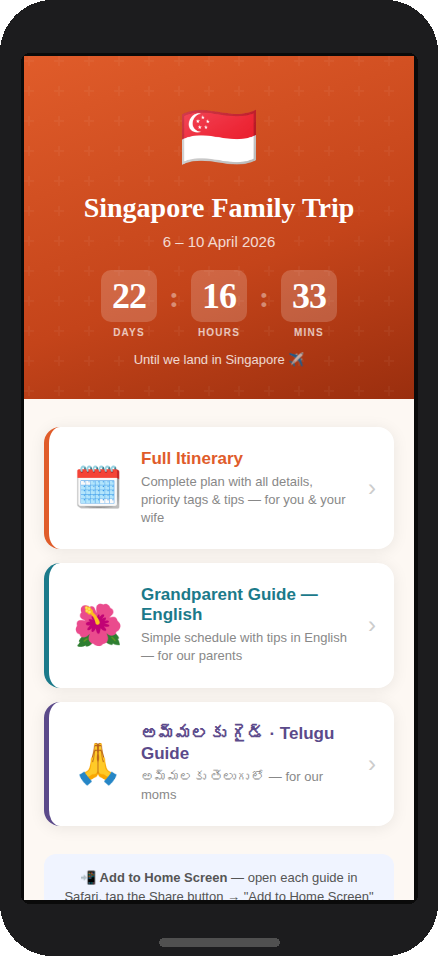
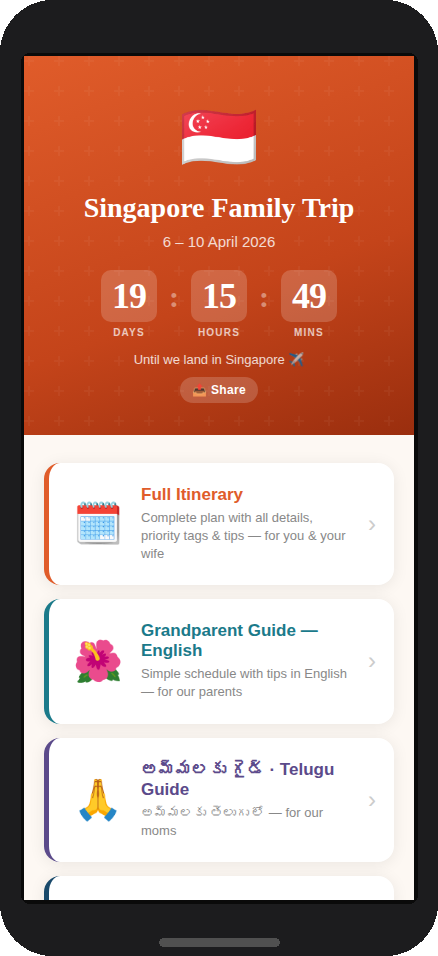
Cleanup and minor updates

diff --git a/build.html b/build.html
@@ -214,28 +214,34 @@ body { font-family: 'DM Sans', sans-serif; background: var(--bg); padding-bottom
 
   <!-- ── Guided mode ── -->
   <a id="guided-mode"></a>
-  <div class="section-head">✨ Start here — guided mode</div>
+  <div style="display:flex;align-items:center;justify-content:space-between;margin:28px 0 12px;padding-bottom:6px;border-bottom:1px solid var(--rule);">
+    <span style="font-size:13px;font-weight:700;color:var(--light);letter-spacing:1px;text-transform:uppercase;">✨ Start here — guided mode</span>
+    <button onclick="shareLink('https://hrajendra.github.io/sg-trip-2026/build.html#guided-mode','Build a trip guide app with Claude')"
+      style="display:inline-flex;align-items:center;gap:5px;background:var(--bg);border:1px solid var(--rule);border-radius:20px;padding:5px 12px;font-size:12px;font-weight:600;color:var(--mid);cursor:pointer;font-family:'DM Sans',sans-serif;">
+      🔗 Share link
+    </button>
+  </div>
 
   <div style="background:#1A4A6B;border-radius:16px;padding:20px;margin-bottom:12px;">
     <div style="font-size:11px;font-weight:700;letter-spacing:1.2px;text-transform:uppercase;color:rgba(255,255,255,0.5);margin-bottom:10px;">Copy this prompt into Claude</div>
     <p style="font-size:13px;color:rgba(255,255,255,0.92);line-height:1.75;font-family:'DM Sans',sans-serif;margin:0;">
-      I want to build a mobile trip guide app for my family — a shareable link that works offline, with a day-by-day schedule and food recommendations, tailored for different members of my group (like grandparents who may need a simpler version).<br><br>
+      I want to build a mobile trip guide app for my family — a shareable link that works fully offline (all pages cached on the very first load, so the whole family can use it without any internet connection even if they only opened the home page), with a day-by-day schedule and food recommendations, tailored for different members of my group (like grandparents who may need a simpler version).<br><br>
       I have no coding experience. Please guide me step by step. If I'm ever stuck or unsure what to do next, just tell me exactly what to do.<br><br>
       For reference, here's an example of what we're building: <span style="color:#7FB8D4">https://github.com/hrajendra/sg-trip-2026</span> — feel free to use this as a starting template and adapt the structure, features, and design for my trip.<br><br>
       Start by asking me everything you need to know about the trip — one topic at a time so it's not overwhelming. Once you have the full picture, first build me a clean itinerary document I can review. After I approve it, build the mobile app. At the end, give me simple instructions to put it online for free so I can share the link with everyone.
     </p>
   <div style="display:flex;gap:10px;margin-top:14px;">
-    <a href="https://claude.ai/new?q=I%20want%20to%20build%20a%20mobile%20trip%20guide%20app%20for%20my%20family%20%E2%80%94%20a%20shareable%20link%20that%20works%20fully%20offline%20%28all%20pages%20cached%20on%20first%20load%29%2C%20with%20a%20day-by-day%20schedule%20and%20food%20recommendations%2C%20tailored%20for%20different%20members%20of%20my%20group%20%28like%20grandparents%20who%20may%20need%20a%20simpler%20version%29.%0A%0AI%20have%20no%20coding%20experience.%20Please%20guide%20me%20step%20by%20step.%20If%20I%27m%20ever%20stuck%20or%20unsure%20what%20to%20do%20next%2C%20just%20tell%20me%20exactly%20what%20to%20do.%0A%0AFor%20reference%2C%20here%27s%20an%20example%20of%20what%20we%27re%20building%3A%20https%3A//github.com/hrajendra/sg-trip-2026%20%E2%80%94%20feel%20free%20to%20use%20this%20as%20a%20starting%20template%20and%20adapt%20the%20structure%2C%20features%2C%20and%20design%20for%20my%20trip.%0A%0AStart%20by%20asking%20me%20everything%20you%20need%20to%20know%20about%20the%20trip%20%E2%80%94%20one%20topic%20at%20a%20time%20so%20it%27s%20not%20overwhelming.%20Once%20you%20have%20the%20full%20picture%2C%20first%20build%20me%20a%20clean%20itinerary%20document%20I%20can%20review.%20After%20I%20approve%20it%2C%20build%20the%20mobile%20app.%20At%20the%20end%2C%20give%20me%20simple%20instructions%20to%20put%20it%20online%20for%20free%20so%20I%20can%20share%20the%20link%20with%20everyone." target="_blank" rel="noopener"
+    <a href="https://claude.ai/new?q=I%20want%20to%20build%20a%20mobile%20trip%20guide%20app%20for%20my%20family%20%E2%80%94%20a%20shareable%20link%20that%20works%20fully%20offline%20%28all%20pages%20cached%20on%20the%20very%20first%20load%2C%20so%20the%20whole%20family%20can%20use%20it%20without%20any%20internet%20connection%20even%20if%20they%20only%20opened%20the%20home%20page%29%2C%20with%20a%20day-by-day%20schedule%20and%20food%20recommendations%2C%20tailored%20for%20different%20members%20of%20my%20group%20%28like%20grandparents%20who%20may%20need%20a%20simpler%20version%29.%0A%0AI%20have%20no%20coding%20experience.%20Please%20guide%20me%20step%20by%20step.%20If%20I%27m%20ever%20stuck%20or%20unsure%20what%20to%20do%20next%2C%20just%20tell%20me%20exactly%20what%20to%20do.%0A%0AFor%20reference%2C%20here%27s%20an%20example%20of%20what%20we%27re%20building%3A%20https%3A//github.com/hrajendra/sg-trip-2026%20%E2%80%94%20feel%20free%20to%20use%20this%20as%20a%20starting%20template%20and%20adapt%20the%20structure%2C%20features%2C%20and%20design%20for%20my%20trip.%0A%0AStart%20by%20asking%20me%20everything%20you%20need%20to%20know%20about%20the%20trip%20%E2%80%94%20one%20topic%20at%20a%20time%20so%20it%27s%20not%20overwhelming.%20Once%20you%20have%20the%20full%20picture%2C%20first%20build%20me%20a%20clean%20itinerary%20document%20I%20can%20review.%20After%20I%20approve%20it%2C%20build%20the%20mobile%20app.%20At%20the%20end%2C%20give%20me%20simple%20instructions%20to%20put%20it%20online%20for%20free%20so%20I%20can%20share%20the%20link%20with%20everyone." target="_blank" rel="noopener"
       style="flex:1;display:flex;align-items:center;justify-content:center;gap:6px;
         background:white;color:#1A4A6B;border-radius:10px;padding:11px;
         font-size:13px;font-weight:700;text-decoration:none;font-family:'DM Sans',sans-serif;">
       ✦ Start in Claude →
     </a>
-    <button onclick="shareLink('https://hrajendra.github.io/sg-trip-2026/build.html#guided-mode','Build a trip guide app with Claude')"
+    <button onclick="copyPrompt()"
       style="flex:1;display:flex;align-items:center;justify-content:center;gap:6px;
         background:rgba(255,255,255,0.14);border:none;border-radius:10px;padding:11px;
         color:white;font-size:13px;font-weight:600;cursor:pointer;font-family:'DM Sans',sans-serif;">
-      🔗 Copy link
+      📋 Copy prompt
     </button>
   </div>
   </div>
@@ -290,7 +296,21 @@ body { font-family: 'DM Sans', sans-serif; background: var(--bg); padding-bottom
 
 </div>
 
-<script>  function shareLink(url, title) {
+<script>  function copyPrompt() {
+    var text = `I want to build a mobile trip guide app for my family — a shareable link that works fully offline (all pages cached on the very first load, so the whole family can use it without any internet connection even if they only opened the home page), with a day-by-day schedule and food recommendations, tailored for different members of my group (like grandparents who may need a simpler version).
+
+I have no coding experience. Please guide me step by step. If I'm ever stuck or unsure what to do next, just tell me exactly what to do.
+
+For reference, here's an example of what we're building: https://github.com/hrajendra/sg-trip-2026 — feel free to use this as a starting template and adapt the structure, features, and design for my trip.
+
+Start by asking me everything you need to know about the trip — one topic at a time so it's not overwhelming. Once you have the full picture, first build me a clean itinerary document I can review. After I approve it, build the mobile app. At the end, give me simple instructions to put it online for free so I can share the link with everyone.`;
+    navigator.clipboard.writeText(text).then(function() {
+      showToast('Prompt copied! ✓');
+    }).catch(function() {
+      showToast('Copy failed — select the text manually');
+    });
+  }
+  function shareLink(url, title) {
     if (navigator.share) {
       navigator.share({ title: title, url: url }).catch(function(){});
     } else {

diff --git a/README.md b/README.md
@@ -4,6 +4,8 @@
 
 **Live site:** [hrajendra.github.io/sg-trip-2026](https://hrajendra.github.io/sg-trip-2026)
 
+**[✦ Build your own trip guide with Claude →](https://claude.ai/new?q=I%20want%20to%20build%20a%20mobile%20trip%20guide%20app%20for%20my%20family%20%E2%80%94%20a%20shareable%20link%20that%20works%20fully%20offline%20%28all%20pages%20cached%20on%20the%20very%20first%20load%2C%20so%20the%20whole%20family%20can%20use%20it%20without%20any%20internet%20connection%20even%20if%20they%20only%20opened%20the%20home%20page%29%2C%20with%20a%20day-by-day%20schedule%20and%20food%20recommendations%2C%20tailored%20for%20different%20members%20of%20my%20group%20%28like%20grandparents%20who%20may%20need%20a%20simpler%20version%29.%0A%0AI%20have%20no%20coding%20experience.%20Please%20guide%20me%20step%20by%20step.%20If%20I%27m%20ever%20stuck%20or%20unsure%20what%20to%20do%20next%2C%20just%20tell%20me%20exactly%20what%20to%20do.%0A%0AFor%20reference%2C%20here%27s%20an%20example%20of%20what%20we%27re%20building%3A%20https%3A//github.com/hrajendra/sg-trip-2026%20%E2%80%94%20feel%20free%20to%20use%20this%20as%20a%20starting%20template%20and%20adapt%20the%20structure%2C%20features%2C%20and%20design%20for%20my%20trip.%0A%0AStart%20by%20asking%20me%20everything%20you%20need%20to%20know%20about%20the%20trip%20%E2%80%94%20one%20topic%20at%20a%20time%20so%20it%27s%20not%20overwhelming.%20Once%20you%20have%20the%20full%20picture%2C%20first%20build%20me%20a%20clean%20itinerary%20document%20I%20can%20review.%20After%20I%20approve%20it%2C%20build%20the%20mobile%20app.%20At%20the%20end%2C%20give%20me%20simple%20instructions%20to%20put%20it%20online%20for%20free%20so%20I%20can%20share%20the%20link%20with%20everyone.)**
+
 A mobile-first Progressive Web App built as a personal trip guide for a multigenerational family trip to Singapore — 8 people across three generations, 5 days, April 6–10 2026.
 
 The app was entirely designed, written, and iterated with [Claude](https://claude.ai) over a series of conversations — no prior web development was needed. It's shared here as a template and starting point for anyone who wants to build something similar for their own trip.
@@ -25,7 +27,7 @@ The app was entirely designed, written, and iterated with [Claude](https://claud
 
 ## ✨ What this app is
 
-Most travel planning lives in a mess of tabs, PDFs, and WhatsApp threads. This app replaces all of that with a single offline-capable link you can share with everyone in your group — each person gets a view tailored to them.
+Most travel planning lives in a mess of tabs, PDFs, and WhatsApp threads. This app replaces all of that with a single link you can share with everyone in your group — each person gets a view tailored to them. It works fully offline (no signal needed at temples, beaches, or airports), installs on home screens as its own icon, and has a share button on every page.
 
 The specific problem it solves: **multigenerational travel** where different members of the group have very different needs. Parents want every detail. Grandparents want to know where to be and when, in language they can read. Young children have dietary restrictions. Everyone needs the same trip, but communicated differently.
 
@@ -45,8 +47,9 @@ The specific problem it solves: **multigenerational travel** where different mem
 - **Tab navigation** — Days 1–5, Places, Food, Info (and Apps tab in the full guide)
 - **Dish toggles** — every hawker centre and restaurant has a collapsible dish list with stall numbers, dietary tags (🌿 🍗 👶 🍼 ⭐), and sugar flags
 - **Single source of truth** — `dishes.js` powers dish lists across all three guide pages; update once, all pages reflect it
-- **Offline-first PWA** — service worker caches all assets on first load; works without internet
+- **Offline-first PWA** — service worker pre-caches all pages on install; works without any internet after first load, even pages not yet visited
 - **Installable** — full `manifest.json` with custom hibiscus icon, works on iOS Safari and Android Chrome
+- **Share buttons** — every page has a native share button; opens the share sheet on mobile (WhatsApp, iMessage, etc.) or copies link to clipboard with a toast on desktop
 - **Cultural dietary rules** — vegetarian-only flags before temple visits baked into the schedule notes
 - **Places & Food tabs** — separate reference tabs for all venues (with opening hours) and all food/drink recommendations
 - **Telugu guide** — full translation with English subtitles for non-Telugu readers in the group
@@ -129,7 +132,9 @@ The `manifest.json` uses `"start_url": "./index.html"` and `"scope": "./"` — t
 
 ## 🤖 Build your own with Claude
 
-This entire app was built through conversation with Claude — no code was written by hand. The full story, stats, retrospective, and a step-by-step guide for building your own version is in **[build.html](https://hrajendra.github.io/sg-trip-2026/build.html)** — readable in any browser, and linked from the app home screen.
+This entire app was built through conversation with Claude — no code was written by hand. The full story, stats, retrospective, and guided mode for building your own is in **[build.html](https://hrajendra.github.io/sg-trip-2026/build.html)** — linked from the app home screen.
+
+The fastest way to start: **[✦ Open guided mode in Claude](https://hrajendra.github.io/sg-trip-2026/build.html#guided-mode)** — a pre-filled prompt that kicks off a step-by-step conversation to build your own trip guide. Or go straight to Claude with the prompt: [claude.ai/new](https://claude.ai/new).
 
 ---
 
